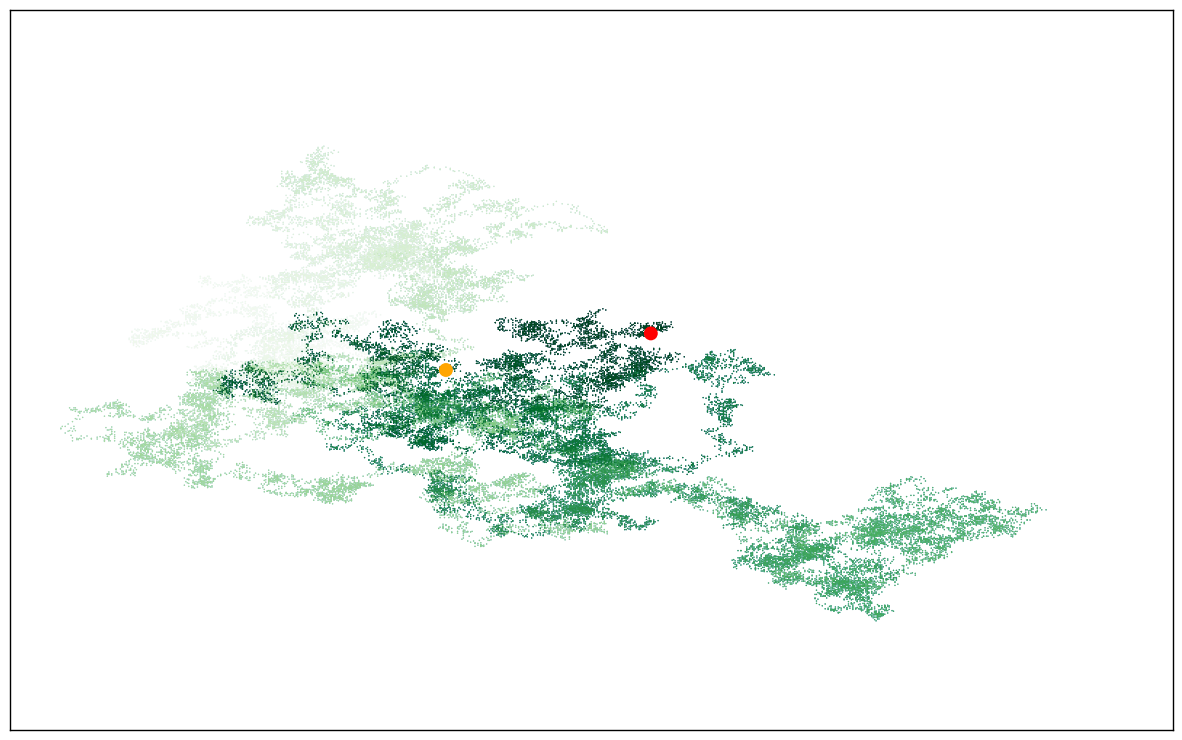
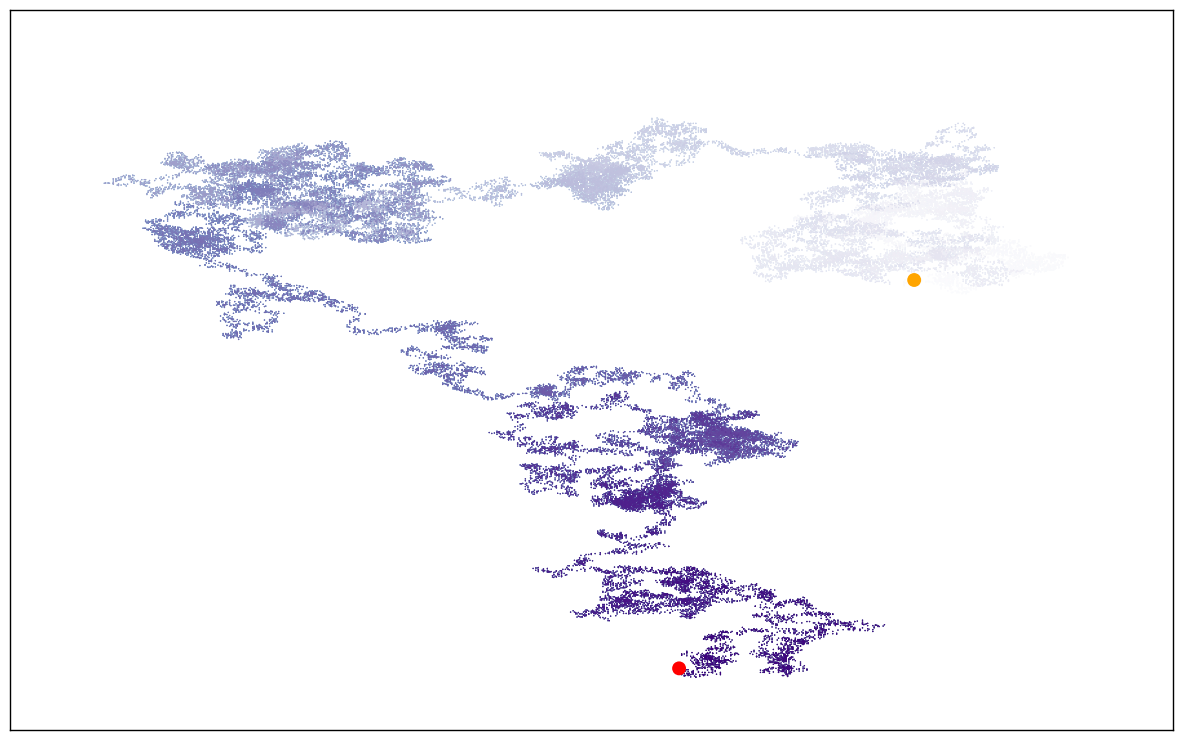
2021/02/25 (pm)

Changed region(s): [[0.0609, 0.1554, 0.8832, 0.9324]]

diff --git a/Data_Visualization(Project_2)/rw_visual.py b/Data_Visualization(Project_2)/rw_visual.py
@@ -18,7 +18,7 @@ while True:
 	ax.scatter(rw.x_values, rw.y_values, c=point_numbers, cmap=plt.cm.Blues,
 		edgecolor='none', s=1)
 
-	ax.scatter(rw.x_values, rw.y_values, c=point_numbers, cmap=plt.cm.Greens,
+	ax.scatter(rw.x_values, rw.y_values, c=point_numbers, cmap=plt.cm.Purples,
 		edgecolors='none', s=1)
 	# Emphasize the first and last points.
 	ax.scatter(0, 0, c='orange', edgecolors='none', s=100)
